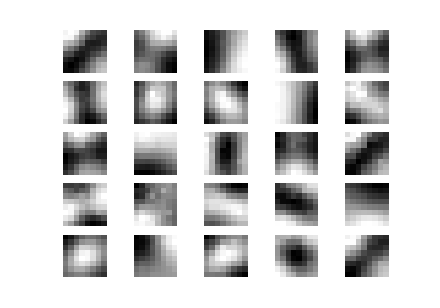
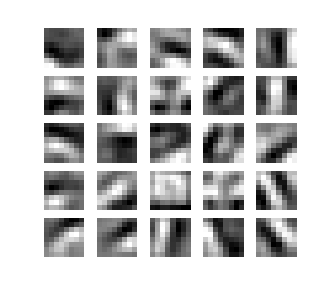
Cleanup.

diff --git a/2_autoencoder.py b/2_autoencoder.py
@@ -1,0 +1,47 @@
+#!/usr/bin/python3
+
+#Applies a 3-layer sparse autoencoder to a randomized set of image patches
+
+from scipy.io import loadmat
+from sparse_autoencoder_scipy import SimpleSAE
+import numpy as np
+from sys import stdout as cout
+import gbl
+import matplotlib.pyplot as plt
+
+p_w = 8
+p_h = 8
+imgs = loadmat('res/IMAGES.mat', mat_dtype=True)['IMAGES'].swapaxes(2,1).swapaxes(1,0)
+patches = gbl.sample_random_patches(imgs, 10000, p_w, p_h)
+
+mean = patches.mean()
+std = 3 * patches.std()
+patches = 0.4 * (np.maximum(np.minimum(patches - mean, std), -std) / std + 1) + 0.1
+patches = patches.reshape([10000, p_w * p_h])
+
+s2 = 5
+nn = SimpleSAE(
+  layers=[patches.shape[1], s2 * s2, patches.shape[1]],
+  decay=1e-4,
+  sparsity=0.01,
+  sparsity_penalty=3
+)
+nn.optimize(patches, patches, 400)
+
+#TODO: create an unpatchify function
+#Transpose because column matrices are used for the weights
+hidden_w = nn.w[0].T
+#Matrix notation reverses height vs width
+
+figure, axes = plt.subplots(nrows = s2, ncols = s2)
+index = 0
+
+for axis in axes.flat:
+  image = axis.imshow(nn.w[0].T[index].reshape(p_w, p_h),
+    cmap = plt.cm.gray, interpolation = 'nearest'
+  )
+  axis.set_frame_on(False)
+  axis.set_axis_off()
+  index += 1
+
+plt.show()

diff --git a/gbl.py b/gbl.py
@@ -7,7 +7,7 @@ __all__ = ['show_tiles']
 
 #Return ndarray of (width, height) from PIL image
 def pil2ndarray(img):
-  '''Given an image loaded by pillow, returns an ndarray of intensity values.
+  '''Given an image loaded by Pillow, returns an ndarray of intensity values.
 
   Args:
     img (PIL.Image): Image loaded by PIL.Image.open()

diff --git a/README.md b/README.md
@@ -8,7 +8,7 @@ http://deeplearning.stanford.edu/tutorial/ (Newer)
 
 http://deeplearning.stanford.edu/wiki/index.php/UFLDL_Tutorial (Older)
 
-Unfortuantely the *newer* site seems privy to errors, so some solutions follow the *older* site's exercises.
+Unfortuantely the *newer* site seems privy to errors, so solutions follow the *older* site's exercises.
 
 ## Requirements
 Everything is implemented for Python3. The main modules should be in the requirements file.  However:
